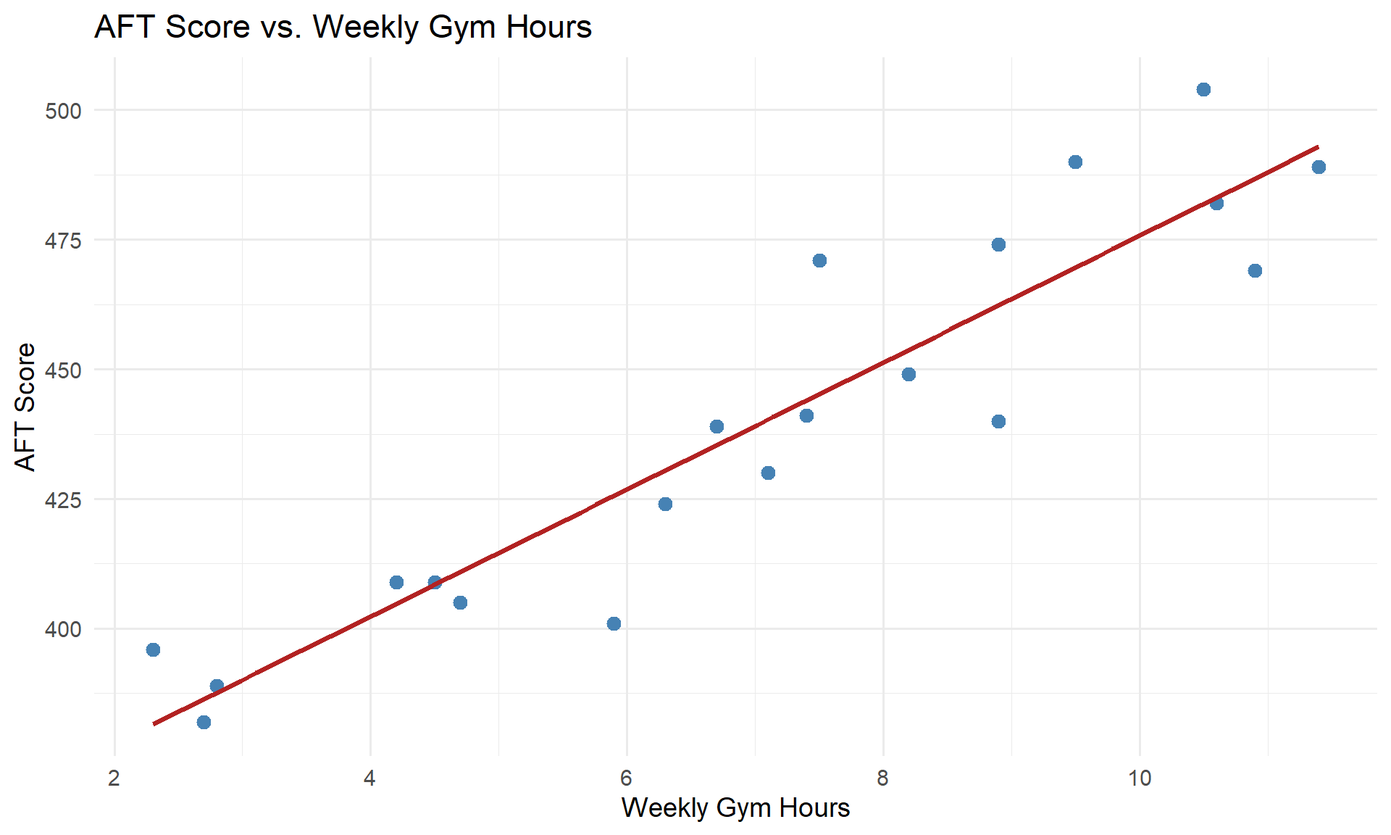
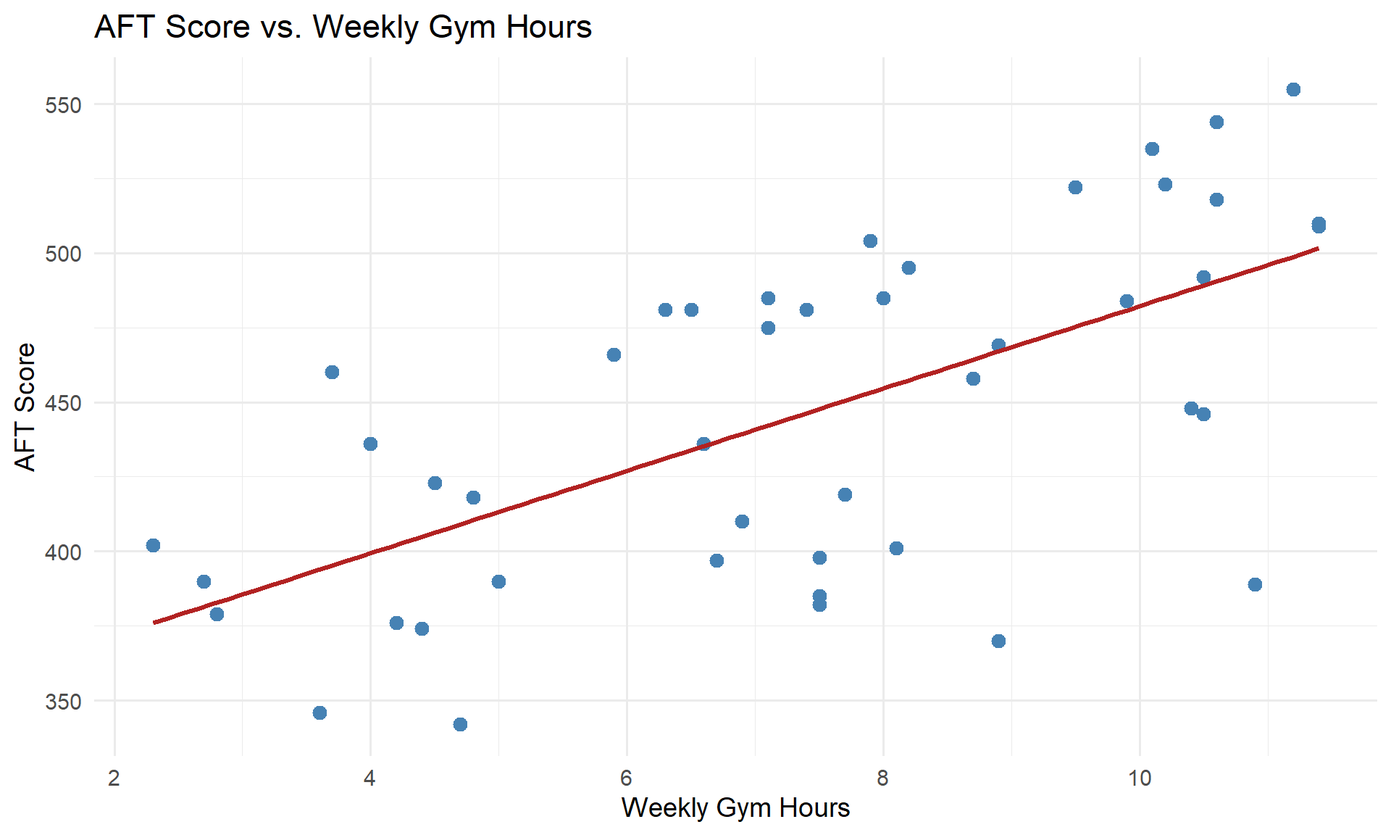
Sync westpoint folder from courses repo

diff --git a/public/westpoint/MA206x-AY26-2/lesson-30.html b/public/westpoint/MA206x-AY26-2/lesson-30.html
@@ -601,15 +601,15 @@ window.Quarto = {
 <h2 class="anchored" data-anchor-id="picking-up-where-we-left-off">Picking Up Where We Left Off</h2>
 <p>In Lesson 28, we fit a model predicting AFT scores from gym hours:</p>
 <div class="cell">
-<div class="code-copy-outer-scaffold"><div class="sourceCode cell-code" id="cb1"><pre class="sourceCode r code-with-copy"><code class="sourceCode r"><span id="cb1-1"><a href="#cb1-1" aria-hidden="true" tabindex="-1"></a><span class="fu">head</span>(soldiers)</span></code></pre></div><button title="Copy to Clipboard" class="code-copy-button"><i class="bi"></i></button></div>
+<div class="code-copy-outer-scaffold"><div class="sourceCode cell-code" id="cb1"><pre class="sourceCode r code-with-copy"><code class="sourceCode r"><span id="cb1-1"><a href="#cb1-1" aria-hidden="true" tabindex="-1"></a><span class="fu">head</span>(soldiers[, <span class="fu">c</span>(<span class="st">"gym_hours"</span>, <span class="st">"aft_score"</span>)])</span></code></pre></div><button title="Copy to Clipboard" class="code-copy-button"><i class="bi"></i></button></div>
 <div class="cell-output cell-output-stdout">
 <pre><code>  gym_hours aft_score
-1      10.6       482
-2       6.7       439
-3      10.5       504
-4       2.8       389
-5       2.3       396
-6       4.5       409</code></pre>
+1      10.6       518
+2       6.7       397
+3      10.5       492
+4       2.8       379
+5       2.3       402
+6       4.5       423</code></pre>
 </div>
 </div>
 <div class="cell">
@@ -630,19 +630,19 @@ Call:
 lm(formula = aft_score ~ gym_hours, data = soldiers)
 
 Residuals:
-    Min      1Q  Median      3Q     Max 
--24.584  -6.049  -2.001   6.088  25.846 
+     Min       1Q   Median       3Q      Max 
+-105.644  -31.471    7.454   37.627   64.745 
 
 Coefficients:
             Estimate Std. Error t value Pr(&gt;|t|)    
-(Intercept)  353.418      8.644   40.88  &lt; 2e-16 ***
-gym_hours     12.231      1.141   10.72 3.02e-09 ***
+(Intercept)  344.181     20.077  17.143  &lt; 2e-16 ***
+gym_hours     13.804      2.558   5.396 2.74e-06 ***
 ---
 Signif. codes:  0 '***' 0.001 '**' 0.01 '*' 0.05 '.' 0.1 ' ' 1
 
-Residual standard error: 14.18 on 18 degrees of freedom
-Multiple R-squared:  0.8646,    Adjusted R-squared:  0.8571 
-F-statistic:   115 on 1 and 18 DF,  p-value: 3.02e-09</code></pre>
+Residual standard error: 44.56 on 43 degrees of freedom
+Multiple R-squared:  0.4038,    Adjusted R-squared:  0.3899 
+F-statistic: 29.12 on 1 and 43 DF,  p-value: 2.74e-06</code></pre>
 </div>
 </div>
 <p>There’s a lot in this output. What should we look at?</p>
@@ -653,10 +653,10 @@ F-statistic:   115 on 1 and 18 DF,  p-value: 3.02e-09</code></pre>
 <section id="the-regression-equation" class="level3">
 <h3 class="anchored" data-anchor-id="the-regression-equation">1. The Regression Equation</h3>
 <p>From the <code>Estimate</code> column, we get the coefficients:</p>
-<p><span class="math display">\[\widehat{\text{AFT Score}} = 353.42 + 12.23 \cdot \text{Gym Hours}\]</span></p>
+<p><span class="math display">\[\widehat{\text{AFT Score}} = 344.18 + 13.8 \cdot \text{Gym Hours}\]</span></p>
 <ul>
-<li><strong>Slope</strong> (<span class="math inline">\(b_1 = 12.23\)</span>): For each additional hour per week spent in the gym, a Soldier’s predicted AFT score increases by 12.23 points, on average.</li>
-<li><strong>Intercept</strong> (<span class="math inline">\(b_0 = 353.42\)</span>): A Soldier who spends zero hours per week in the gym has a predicted AFT score of 353.42 points.</li>
+<li><strong>Slope</strong> (<span class="math inline">\(b_1 = 13.8\)</span>): For each additional hour per week spent in the gym, a Soldier’s predicted AFT score increases by 13.8 points, on average.</li>
+<li><strong>Intercept</strong> (<span class="math inline">\(b_0 = 344.18\)</span>): A Soldier who spends zero hours per week in the gym has a predicted AFT score of 344.18 points.</li>
 </ul>
 <hr>
 </section>
@@ -667,9 +667,9 @@ F-statistic:   115 on 1 and 18 DF,  p-value: 3.02e-09</code></pre>
 <p><span class="math display">\[H_0: \beta_1 = 0 \quad \text{(no linear relationship between gym hours and AFT score)}\]</span> <span class="math display">\[H_a: \beta_1 \neq 0 \quad \text{(there is a linear relationship)}\]</span></p>
 <p>If we fail to reject <span class="math inline">\(H_0\)</span>, that means gym hours is <strong>not</strong> a useful predictor of AFT score. This is the test we care about most.</p>
 <p><strong>For the intercept:</strong></p>
-<p><span class="math display">\[H_0: \beta_0 = 0 \quad H_a: \beta_0 \neq 0\]</span></p>
+<p><span class="math display">\[H_0: \beta_0 = 0\]</span> <span class="math display">\[H_a: \beta_0 \neq 0\]</span></p>
 <p>This tests whether the intercept is different from zero – often less interesting in practice.</p>
-<p>The p-value for the slope is 3.02^{-9} – very small. We reject <span class="math inline">\(H_0\)</span> and conclude there <strong>is</strong> a statistically significant linear relationship between gym hours and AFT score.</p>
+<p>The p-value for the slope is 2.74^{-6} – very small. We reject <span class="math inline">\(H_0\)</span> and conclude there <strong>is</strong> a statistically significant linear relationship between gym hours and AFT score.</p>
 <hr>
 </section>
 <section id="r2-how-well-does-the-model-fit" class="level3">
@@ -695,7 +695,7 @@ F-statistic:   115 on 1 and 18 DF,  p-value: 3.02e-09</code></pre>
 <p><span class="math inline">\(R^2\)</span> is the proportion of variability in <span class="math inline">\(y\)</span> explained by <span class="math inline">\(x\)</span>.</p>
 </div>
 </div>
-<p>For our model, <span class="math inline">\(R^2 = 0.8646\)</span>, meaning gym hours explain about 86.5% of the variability in AFT scores.</p>
+<p>For our model, <span class="math inline">\(R^2 = 0.4038\)</span>, meaning gym hours explain about 40.4% of the variability in AFT scores.</p>
 <div class="callout callout-style-default callout-warning callout-titled" title="$R^2$ Cautions">
 <div class="callout-header d-flex align-content-center">
 <div class="callout-icon-container">
@@ -732,51 +732,51 @@ F-statistic:   115 on 1 and 18 DF,  p-value: 3.02e-09</code></pre>
 </section>
 <section id="what-if-we-have-more-than-one-predictor" class="level2">
 <h2 class="anchored" data-anchor-id="what-if-we-have-more-than-one-predictor">What If We Have More Than One Predictor?</h2>
-<p>Gym hours probably isn’t the only thing that affects AFT scores. What if we collected more data on each Soldier?</p>
+<p>Gym hours probably isn’t the only thing that affects AFT scores. It turns out we actually collected more data on these same Soldiers – we just haven’t looked at it yet:</p>
 <div class="cell">
-<div class="code-copy-outer-scaffold"><div class="sourceCode cell-code" id="cb5"><pre class="sourceCode r code-with-copy"><code class="sourceCode r"><span id="cb5-1"><a href="#cb5-1" aria-hidden="true" tabindex="-1"></a><span class="fu">head</span>(soldiers_mlr)</span></code></pre></div><button title="Copy to Clipboard" class="code-copy-button"><i class="bi"></i></button></div>
+<div class="code-copy-outer-scaffold"><div class="sourceCode cell-code" id="cb5"><pre class="sourceCode r code-with-copy"><code class="sourceCode r"><span id="cb5-1"><a href="#cb5-1" aria-hidden="true" tabindex="-1"></a><span class="fu">head</span>(soldiers[, <span class="fu">c</span>(<span class="st">"gym_hours"</span>, <span class="st">"hours_gaming"</span>, <span class="st">"gpa"</span>, <span class="st">"aft_score"</span>)])</span></code></pre></div><button title="Copy to Clipboard" class="code-copy-button"><i class="bi"></i></button></div>
 <div class="cell-output cell-output-stdout">
 <pre><code>  gym_hours hours_gaming  gpa aft_score
-1       9.0         18.2 2.60       409
-2       7.6          3.5 3.79       505
-3       3.4         14.6 3.13       358
-4       4.9          0.3 2.91       501
-5       7.6         11.7 2.80       436
-6       2.3          8.5 2.17       387</code></pre>
+1      10.6          2.3 2.80       518
+2       6.7         18.1 3.35       397
+3      10.5          2.8 3.41       492
+4       2.8         10.1 2.14       379
+5       2.3         12.7 3.61       402
+6       4.5          9.5 2.71       423</code></pre>
 </div>
 </div>
 <p>Now we have three potential predictors: <strong>gym hours</strong>, <strong>gaming hours</strong>, and <strong>GPA</strong>. Let’s fit a model with all three:</p>
 <div class="cell">
-<div class="code-copy-outer-scaffold"><div class="sourceCode cell-code" id="cb7"><pre class="sourceCode r code-with-copy"><code class="sourceCode r"><span id="cb7-1"><a href="#cb7-1" aria-hidden="true" tabindex="-1"></a>model_mlr <span class="ot">&lt;-</span> <span class="fu">lm</span>(aft_score <span class="sc">~</span> gym_hours <span class="sc">+</span> hours_gaming <span class="sc">+</span> gpa, <span class="at">data =</span> soldiers_mlr)</span>
+<div class="code-copy-outer-scaffold"><div class="sourceCode cell-code" id="cb7"><pre class="sourceCode r code-with-copy"><code class="sourceCode r"><span id="cb7-1"><a href="#cb7-1" aria-hidden="true" tabindex="-1"></a>model_mlr <span class="ot">&lt;-</span> <span class="fu">lm</span>(aft_score <span class="sc">~</span> gym_hours <span class="sc">+</span> hours_gaming <span class="sc">+</span> gpa, <span class="at">data =</span> soldiers)</span>
 <span id="cb7-2"><a href="#cb7-2" aria-hidden="true" tabindex="-1"></a><span class="fu">summary</span>(model_mlr)</span></code></pre></div><button title="Copy to Clipboard" class="code-copy-button"><i class="bi"></i></button></div>
 <div class="cell-output cell-output-stdout">
 <pre><code>
 Call:
-lm(formula = aft_score ~ gym_hours + hours_gaming + gpa, data = soldiers_mlr)
+lm(formula = aft_score ~ gym_hours + hours_gaming + gpa, data = soldiers)
 
 Residuals:
-     Min       1Q   Median       3Q      Max 
--16.5182  -6.4093   0.0888   4.9078  15.9962 
+    Min      1Q  Median      3Q     Max 
+-41.932 -14.411  -1.957  16.266  45.215 
 
 Coefficients:
              Estimate Std. Error t value Pr(&gt;|t|)    
-(Intercept)  431.9254    10.4331  41.400  &lt; 2e-16 ***
-gym_hours     11.7902     0.6450  18.279 2.32e-16 ***
-hours_gaming  -8.0622     0.2633 -30.620  &lt; 2e-16 ***
-gpa            1.3630     2.8190   0.484    0.633    
+(Intercept)   414.882     23.442  17.698  &lt; 2e-16 ***
+gym_hours       9.293      1.323   7.025 1.52e-08 ***
+hours_gaming   -6.053      0.536 -11.292 3.68e-14 ***
+gpa             7.522      5.807   1.295    0.202    
 ---
 Signif. codes:  0 '***' 0.001 '**' 0.01 '*' 0.05 '.' 0.1 ' ' 1
 
-Residual standard error: 8.733 on 26 degrees of freedom
-Multiple R-squared:  0.9789,    Adjusted R-squared:  0.9765 
-F-statistic: 402.9 on 3 and 26 DF,  p-value: &lt; 2.2e-16</code></pre>
+Residual standard error: 21.82 on 41 degrees of freedom
+Multiple R-squared:  0.8637,    Adjusted R-squared:  0.8538 
+F-statistic: 86.62 on 3 and 41 DF,  p-value: &lt; 2.2e-16</code></pre>
 </div>
 </div>
 <section id="reading-this-output" class="level3">
 <h3 class="anchored" data-anchor-id="reading-this-output">Reading This Output</h3>
 <p>The same three things we looked for in SLR still apply:</p>
 <p><strong>1. The Equation:</strong></p>
-<p><span class="math display">\[\widehat{\text{AFT Score}} = 431.93 + 11.79 \cdot \text{Gym Hours} -8.06 \cdot \text{Gaming Hours} + 1.36 \cdot \text{GPA}\]</span></p>
+<p><span class="math display">\[\widehat{\text{AFT Score}} = 414.88 + 9.29 \cdot \text{Gym Hours} -6.05 \cdot \text{Gaming Hours} + 7.52 \cdot \text{GPA}\]</span></p>
 <div class="callout callout-style-default callout-important callout-titled" title="Interpreting MLR Slopes">
 <div class="callout-header d-flex align-content-center">
 <div class="callout-icon-container">
@@ -789,17 +789,18 @@ F-statistic: 402.9 on 3 and 26 DF,  p-value: &lt; 2.2e-16</code></pre>
 <div class="callout-body-container callout-body">
 <p>In multiple regression, each slope is interpreted <strong>holding the other variables constant</strong>:</p>
 <ul>
-<li>For each additional gym hour per week, predicted AFT score increases by 11.79 points, <strong>holding gaming hours and GPA constant</strong>.</li>
-<li>For each additional hour of gaming per week, predicted AFT score <strong>decreases</strong> by 8.06 points, <strong>holding gym hours and GPA constant</strong>.</li>
-<li>For each additional GPA point, predicted AFT score changes by 1.36 points, <strong>holding gym hours and gaming hours constant</strong>.</li>
+<li>For each additional gym hour per week, predicted AFT score increases by 9.29 points, <strong>holding gaming hours and GPA constant</strong>.</li>
+<li>For each additional hour of gaming per week, predicted AFT score <strong>decreases</strong> by 6.05 points, <strong>holding gym hours and GPA constant</strong>.</li>
+<li>For each additional GPA point, predicted AFT score changes by 7.52 points, <strong>holding gym hours and gaming hours constant</strong>.</li>
 </ul>
 </div>
 </div>
 <p><strong>2. The P-Values:</strong></p>
-<p>Each predictor has its own hypothesis test: <span class="math inline">\(H_0: \beta_j = 0\)</span> vs <span class="math inline">\(H_a: \beta_j \neq 0\)</span>.</p>
+<p>Each predictor has its own hypothesis test:</p>
+<p><span class="math display">\[H_0: \beta_j = 0\]</span> <span class="math display">\[H_a: \beta_j \neq 0\]</span></p>
 <p>Look at the p-values – gym hours and gaming hours have small p-values (significant predictors), but GPA does not. We fail to reject <span class="math inline">\(H_0: \beta_3 = 0\)</span>, meaning GPA is <strong>not</strong> a significant predictor of AFT score. That makes sense!</p>
 <p><strong>3. <span class="math inline">\(R^2\)</span>:</strong></p>
-<p><span class="math inline">\(R^2 = 0.9789\)</span> – gym hours, gaming hours, and GPA together explain about 97.9% of the variability in AFT scores.</p>
+<p><span class="math inline">\(R^2 = 0.8637\)</span> – gym hours, gaming hours, and GPA together explain about 86.4% of the variability in AFT scores.</p>
 <div class="callout callout-style-default callout-warning callout-titled" title="Not Every Variable Belongs in the Model">
 <div class="callout-header d-flex align-content-center">
 <div class="callout-icon-container">
@@ -825,31 +826,32 @@ F-statistic: 402.9 on 3 and 26 DF,  p-value: &lt; 2.2e-16</code></pre>
 <h2 class="anchored" data-anchor-id="removing-the-insignificant-predictor">Removing the Insignificant Predictor</h2>
 <p>Since GPA wasn’t significant, let’s drop it and refit with just gym hours and gaming hours:</p>
 <div class="cell">
-<div class="code-copy-outer-scaffold"><div class="sourceCode cell-code" id="cb9"><pre class="sourceCode r code-with-copy"><code class="sourceCode r"><span id="cb9-1"><a href="#cb9-1" aria-hidden="true" tabindex="-1"></a>model_reduced <span class="ot">&lt;-</span> <span class="fu">lm</span>(aft_score <span class="sc">~</span> gym_hours <span class="sc">+</span> hours_gaming, <span class="at">data =</span> soldiers_mlr)</span>
+<div class="code-copy-outer-scaffold"><div class="sourceCode cell-code" id="cb9"><pre class="sourceCode r code-with-copy"><code class="sourceCode r"><span id="cb9-1"><a href="#cb9-1" aria-hidden="true" tabindex="-1"></a>model_reduced <span class="ot">&lt;-</span> <span class="fu">lm</span>(aft_score <span class="sc">~</span> gym_hours <span class="sc">+</span> hours_gaming, <span class="at">data =</span> soldiers)</span>
 <span id="cb9-2"><a href="#cb9-2" aria-hidden="true" tabindex="-1"></a><span class="fu">summary</span>(model_reduced)</span></code></pre></div><button title="Copy to Clipboard" class="code-copy-button"><i class="bi"></i></button></div>
 <div class="cell-output cell-output-stdout">
 <pre><code>
 Call:
-lm(formula = aft_score ~ gym_hours + hours_gaming, data = soldiers_mlr)
+lm(formula = aft_score ~ gym_hours + hours_gaming, data = soldiers)
 
 Residuals:
     Min      1Q  Median      3Q     Max 
--15.443  -6.046  -0.469   4.394  16.818 
+-37.023 -15.642  -0.592  19.137  44.532 
 
 Coefficients:
              Estimate Std. Error t value Pr(&gt;|t|)    
-(Intercept)  436.4609     4.5020   96.95   &lt;2e-16 ***
-gym_hours     11.7607     0.6330   18.58   &lt;2e-16 ***
-hours_gaming  -8.0729     0.2586  -31.21   &lt;2e-16 ***
+(Intercept)  440.3093    12.9181  34.085  &lt; 2e-16 ***
+gym_hours      9.1099     1.3258   6.871 2.22e-08 ***
+hours_gaming  -6.1731     0.5322 -11.599 1.12e-14 ***
 ---
 Signif. codes:  0 '***' 0.001 '**' 0.01 '*' 0.05 '.' 0.1 ' ' 1
 
-Residual standard error: 8.609 on 27 degrees of freedom
-Multiple R-squared:  0.9788,    Adjusted R-squared:  0.9772 
-F-statistic: 621.8 on 2 and 27 DF,  p-value: &lt; 2.2e-16</code></pre>
+Residual standard error: 21.99 on 42 degrees of freedom
+Multiple R-squared:  0.8581,    Adjusted R-squared:  0.8514 
+F-statistic:   127 on 2 and 42 DF,  p-value: &lt; 2.2e-16</code></pre>
 </div>
 </div>
-<p><span class="math inline">\(R^2 = 0.9788\)</span> – nearly the same as the three-predictor model (<span class="math inline">\(R^2 = 0.9789\)</span>). Dropping GPA barely changed anything because it wasn’t contributing meaningful explanatory power.</p>
+<p><span class="math display">\[\widehat{\text{AFT Score}} = 440.31 + 9.11 \cdot \text{Gym Hours} -6.17 \cdot \text{Gaming Hours}\]</span></p>
+<p><span class="math inline">\(R^2 = 0.8581\)</span> – nearly the same as the three-predictor model (<span class="math inline">\(R^2 = 0.8637\)</span>). Dropping GPA barely changed anything because it wasn’t contributing meaningful explanatory power.</p>
 <section id="comparing-all-three-models" class="level3">
 <h3 class="anchored" data-anchor-id="comparing-all-three-models">Comparing All Three Models</h3>
 <div class="cell">
@@ -866,17 +868,17 @@ F-statistic: 621.8 on 2 and 27 DF,  p-value: &lt; 2.2e-16</code></pre>
 <tr class="odd">
 <td style="text-align: left;">SLR: Gym Hours only</td>
 <td style="text-align: center;">1</td>
-<td style="text-align: center;">0.8646</td>
+<td style="text-align: center;">0.4038</td>
 </tr>
 <tr class="even">
 <td style="text-align: left;">MLR: Gym Hours + Gaming + GPA</td>
 <td style="text-align: center;">3</td>
-<td style="text-align: center;">0.9789</td>
+<td style="text-align: center;">0.8637</td>
 </tr>
 <tr class="odd">
 <td style="text-align: left;">MLR: Gym Hours + Gaming</td>
 <td style="text-align: center;">2</td>
-<td style="text-align: center;">0.9788</td>
+<td style="text-align: center;">0.8581</td>
 </tr>
 </tbody>
 </table>
@@ -888,50 +890,50 @@ F-statistic: 621.8 on 2 and 27 DF,  p-value: &lt; 2.2e-16</code></pre>
 </section>
 <section id="what-about-categorical-predictors" class="level2">
 <h2 class="anchored" data-anchor-id="what-about-categorical-predictors">What About Categorical Predictors?</h2>
-<p>So far all our predictors have been numbers. But what if we want to include something like <strong>MOS branch</strong> – Infantry, Cyber, or Engineers?</p>
+<p>So far all our predictors have been numbers. But we also recorded each Soldier’s <strong>MOS branch</strong> – Infantry, Cyber, or Engineers:</p>
 <div class="cell">
-<div class="code-copy-outer-scaffold"><div class="sourceCode cell-code" id="cb11"><pre class="sourceCode r code-with-copy"><code class="sourceCode r"><span id="cb11-1"><a href="#cb11-1" aria-hidden="true" tabindex="-1"></a>soldiers_cat[<span class="fu">c</span>(<span class="dv">1</span><span class="sc">:</span><span class="dv">2</span>, <span class="dv">16</span><span class="sc">:</span><span class="dv">17</span>, <span class="dv">31</span><span class="sc">:</span><span class="dv">32</span>), ]</span></code></pre></div><button title="Copy to Clipboard" class="code-copy-button"><i class="bi"></i></button></div>
+<div class="code-copy-outer-scaffold"><div class="sourceCode cell-code" id="cb11"><pre class="sourceCode r code-with-copy"><code class="sourceCode r"><span id="cb11-1"><a href="#cb11-1" aria-hidden="true" tabindex="-1"></a><span class="fu">head</span>(soldiers)</span></code></pre></div><button title="Copy to Clipboard" class="code-copy-button"><i class="bi"></i></button></div>
 <div class="cell-output cell-output-stdout">
-<pre><code>   gym_hours hours_gaming    branch aft_score
-1       11.1         19.2  Infantry       422
-2       11.4         17.8  Infantry       420
-16      11.4         13.5     Cyber       470
-17      11.8         19.7     Cyber       437
-31       9.4         14.4 Engineers       470
-32      10.1          0.2 Engineers       579</code></pre>
+<pre><code>  gym_hours hours_gaming  gpa    branch aft_score
+1      10.6          2.3 2.80     Cyber       518
+2       6.7         18.1 3.35 Engineers       397
+3      10.5          2.8 3.41  Infantry       492
+4       2.8         10.1 2.14     Cyber       379
+5       2.3         12.7 3.61 Engineers       402
+6       4.5          9.5 2.71  Infantry       423</code></pre>
 </div>
 </div>
 <p><code>branch</code> is a <strong>categorical variable</strong> with three levels. R handles this using <strong>indicator (dummy) variables</strong>:</p>
 <div class="cell">
-<div class="code-copy-outer-scaffold"><div class="sourceCode cell-code" id="cb13"><pre class="sourceCode r code-with-copy"><code class="sourceCode r"><span id="cb13-1"><a href="#cb13-1" aria-hidden="true" tabindex="-1"></a>model_cat <span class="ot">&lt;-</span> <span class="fu">lm</span>(aft_score <span class="sc">~</span> gym_hours <span class="sc">+</span> hours_gaming <span class="sc">+</span> branch, <span class="at">data =</span> soldiers_cat)</span>
+<div class="code-copy-outer-scaffold"><div class="sourceCode cell-code" id="cb13"><pre class="sourceCode r code-with-copy"><code class="sourceCode r"><span id="cb13-1"><a href="#cb13-1" aria-hidden="true" tabindex="-1"></a>model_cat <span class="ot">&lt;-</span> <span class="fu">lm</span>(aft_score <span class="sc">~</span> gym_hours <span class="sc">+</span> hours_gaming <span class="sc">+</span> branch, <span class="at">data =</span> soldiers)</span>
 <span id="cb13-2"><a href="#cb13-2" aria-hidden="true" tabindex="-1"></a><span class="fu">summary</span>(model_cat)</span></code></pre></div><button title="Copy to Clipboard" class="code-copy-button"><i class="bi"></i></button></div>
 <div class="cell-output cell-output-stdout">
 <pre><code>
 Call:
-lm(formula = aft_score ~ gym_hours + hours_gaming + branch, data = soldiers_cat)
+lm(formula = aft_score ~ gym_hours + hours_gaming + branch, data = soldiers)
 
 Residuals:
     Min      1Q  Median      3Q     Max 
--34.975  -8.229   2.424   6.684  19.489 
+-16.821  -8.555  -1.591   7.885  27.441 
 
 Coefficients:
                 Estimate Std. Error t value Pr(&gt;|t|)    
-(Intercept)     454.1012     5.5379  81.998  &lt; 2e-16 ***
-gym_hours        10.2409     0.5849  17.507  &lt; 2e-16 ***
-hours_gaming     -6.8394     0.3142 -21.767  &lt; 2e-16 ***
-branchEngineers  14.8449     4.1268   3.597 0.000875 ***
-branchInfantry  -16.6698     4.0771  -4.089 0.000203 ***
+(Intercept)     435.2475     6.9776  62.378  &lt; 2e-16 ***
+gym_hours        10.5989     0.6934  15.284  &lt; 2e-16 ***
+hours_gaming     -7.0000     0.2888 -24.236  &lt; 2e-16 ***
+branchEngineers  27.6409     4.4745   6.177 2.66e-07 ***
+branchInfantry  -20.8838     4.1198  -5.069 9.50e-06 ***
 ---
 Signif. codes:  0 '***' 0.001 '**' 0.01 '*' 0.05 '.' 0.1 ' ' 1
 
-Residual standard error: 11.08 on 40 degrees of freedom
-Multiple R-squared:  0.9481,    Adjusted R-squared:  0.9429 
-F-statistic: 182.5 on 4 and 40 DF,  p-value: &lt; 2.2e-16</code></pre>
+Residual standard error: 11.26 on 40 degrees of freedom
+Multiple R-squared:  0.9646,    Adjusted R-squared:  0.9611 
+F-statistic: 272.5 on 4 and 40 DF,  p-value: &lt; 2.2e-16</code></pre>
 </div>
 </div>
 <section id="reading-this-output-1" class="level3">
 <h3 class="anchored" data-anchor-id="reading-this-output-1">Reading This Output</h3>
-<p><span class="math display">\[\widehat{\text{AFT Score}} = 454.1 + 10.24 \cdot \text{Gym Hours} - 6.84 \cdot \text{Gaming Hours} + 14.84 \cdot \text{Engineers} - 16.67 \cdot \text{Infantry}\]</span></p>
+<p><span class="math display">\[\widehat{\text{AFT Score}} = 435.25 + 10.6 \cdot \text{Gym Hours} - 7 \cdot \text{Gaming Hours} + 27.64 \cdot \text{Engineers} - 20.88 \cdot \text{Infantry}\]</span></p>
 <p>Wait – what are “Engineers” and “Infantry” in an equation? And where did Cyber go?</p>
 <div class="callout callout-style-default callout-important callout-titled" title="Reference Level">
 <div class="callout-header d-flex align-content-center">
@@ -945,21 +947,21 @@ F-statistic: 182.5 on 4 and 40 DF,  p-value: &lt; 2.2e-16</code></pre>
 <div class="callout-body-container callout-body">
 <p>R picks one level as the <strong>reference</strong> (baseline) – here it’s Cyber (alphabetically first). The indicator variables <code>Engineers</code> and <code>Infantry</code> are 0 or 1, so they “turn on” for that branch. Cyber doesn’t appear because it’s the baseline (both indicators = 0).</p>
 <ul>
-<li><strong>Intercept</strong> (<span class="math inline">\(454.1\)</span>): predicted AFT score for a <strong>Cyber</strong> Soldier with 0 gym hours and 0 gaming hours</li>
-<li><strong>gym_hours</strong> (<span class="math inline">\(10.24\)</span>): each additional gym hour increases predicted AFT score by 10.24 points, holding gaming hours and branch constant</li>
-<li><strong>hours_gaming</strong> (<span class="math inline">\(-6.84\)</span>): each additional gaming hour <strong>decreases</strong> predicted AFT score by 6.84 points, holding gym hours and branch constant</li>
-<li><strong>branchEngineers</strong> (<span class="math inline">\(14.84\)</span>): Engineers score 14.84 points <strong>higher</strong> than Cyber, holding all else constant</li>
-<li><strong>branchInfantry</strong> (<span class="math inline">\(-16.67\)</span>): Infantry score -16.67 points <strong>lower</strong> than Cyber, holding all else constant</li>
+<li><strong>Intercept</strong> (<span class="math inline">\(435.25\)</span>): predicted AFT score for a <strong>Cyber</strong> Soldier with 0 gym hours and 0 gaming hours</li>
+<li><strong>gym_hours</strong> (<span class="math inline">\(10.6\)</span>): each additional gym hour increases predicted AFT score by 10.6 points, holding gaming hours and branch constant</li>
+<li><strong>hours_gaming</strong> (<span class="math inline">\(-7\)</span>): each additional gaming hour <strong>decreases</strong> predicted AFT score by 7 points, holding gym hours and branch constant</li>
+<li><strong>branchEngineers</strong> (<span class="math inline">\(27.64\)</span>): Engineers score 27.64 points <strong>higher</strong> than Cyber, holding all else constant</li>
+<li><strong>branchInfantry</strong> (<span class="math inline">\(-20.88\)</span>): Infantry score -20.88 points <strong>lower</strong> than Cyber, holding all else constant</li>
 </ul>
 <p>The ordering is Infantry &lt; Cyber &lt; Engineers for predicted AFT scores.</p>
 </div>
 </div>
-<p>All predictors are significant, and <span class="math inline">\(R^2 = 0.9481\)</span>.</p>
+<p>All predictors are significant, and <span class="math inline">\(R^2 = 0.9646\)</span>.</p>
 <div class="cell">
 <div class="cell-output-display">
 <div>
 <figure class="figure">
-<p><img src="lesson-30_files/figure-html/unnamed-chunk-21-1.png" class="img-fluid figure-img" width="960"></p>
+<p><img src="lesson-30_files/figure-html/unnamed-chunk-19-1.png" class="img-fluid figure-img" width="960"></p>
 </figure>
 </div>
 </div>
@@ -1076,8 +1078,9 @@ F-statistic: 182.5 on 4 and 40 DF,  p-value: &lt; 2.2e-16</code></pre>
 <ol type="a">
 <li><p><strong>For each additional mile run per week, a Soldier’s predicted 12-mile ruck march time decreases by 2.8 minutes, on average.</strong></p></li>
 <li><p><strong>62% of the variability in ruck march times is explained by the linear relationship with weekly running miles.</strong> The remaining 38% is due to other factors (e.g., load carried, terrain experience, body composition).</p></li>
-<li><p><span class="math inline">\(H_0: \beta_1 = 0\)</span> vs <span class="math inline">\(H_a: \beta_1 \neq 0\)</span></p></li>
+<li><p><span class="math inline">\(H_0: \beta_1 = 0\)</span></p></li>
 </ol>
+<p><span class="math inline">\(H_a: \beta_1 \neq 0\)</span></p>
 <p><span class="math inline">\(t = b_1 / SE(b_1) = -2.8 / 0.55 = -5.09\)</span>, with <span class="math inline">\(df = 25 - 2 = 23\)</span>.</p>
 <p>The p-value for <span class="math inline">\(|t| = 5.09\)</span> with 23 df is very small (&lt; 0.001). We reject <span class="math inline">\(H_0\)</span> and conclude there is a statistically significant linear relationship between weekly running miles and ruck march time.</p>
 <ol start="4" type="a">
@@ -1137,8 +1140,9 @@ Multiple R-squared: 0.372</code></pre>
 </ol>
 <p><strong>Intercept:</strong> A Soldier with zero hours of dry-fire practice per month has a predicted qualification score of 185.20 points. (This is meaningful – some Soldiers may not do extra dry-fire practice.)</p>
 <ol start="3" type="a">
-<li><span class="math inline">\(H_0: \beta_1 = 0\)</span> vs <span class="math inline">\(H_a: \beta_1 \neq 0\)</span></li>
+<li><span class="math inline">\(H_0: \beta_1 = 0\)</span></li>
 </ol>
+<p><span class="math inline">\(H_a: \beta_1 \neq 0\)</span></p>
 <p><span class="math inline">\(t = b_1 / SE(b_1) = 4.15 / 1.02 = 4.07\)</span>, with <span class="math inline">\(df = 30 - 2 = 28\)</span>.</p>
 <p>The p-value is <span class="math inline">\(0.000345 &lt; 0.05\)</span>. We reject <span class="math inline">\(H_0\)</span> and conclude there is a statistically significant linear relationship between dry-fire hours and qualification score.</p>
 <ol start="4" type="a">
